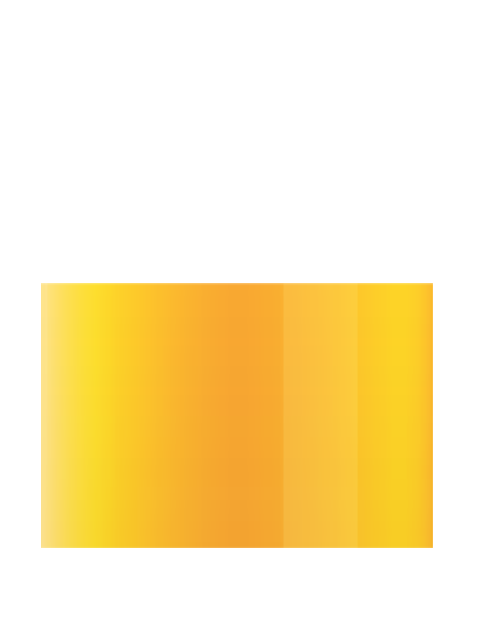
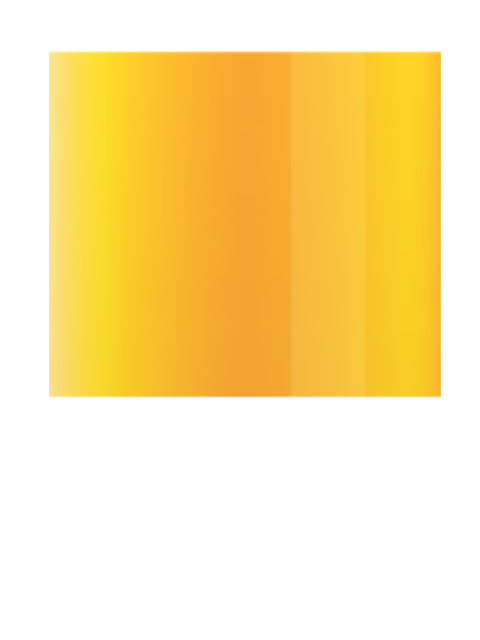
Fix animazione

diff --git a/Informatica/ArniaDidattica/site/default.htm b/Informatica/ArniaDidattica/site/default.htm
@@ -151,27 +151,27 @@
        
         @-moz-keyframes fill_jar 
         {
-            0% 	{ background: 0% -300%; }
+            0% 	{ background: 0% -480%; }
 
-            10% { background: 0% -(300-38)%; }
+            10% { background: 0% -(480-33)%; }
 
-            20% { background: 0% -(300-76)%; }
+            20% { background: 0% -(480-66)%; }
 
-            30% { background: 0% -(300-114)%; }
+            30% { background: 0% -(480-99)%; }
 
-            40% { background: 0% -(300-152)%; }
+            40% { background: 0% -(480-132)%; }
 
-            50% { background: 0% -(300-190)%; }
+            50% { background: 0% -(480-165)%; }
 
-            60% { background: 0% -(300-228)%; }
+            60% { background: 0% -(480-198)%; }
 
-            70% { background: 0% -(300-256)%; }
+            70% { background: 0% -(480-231)%; }
 
-            80% { background: 0% -(300-284)%; }
+            80% { background: 0% -(480-264)%; }
 
-            90% { background: 0% -(300-322)%; }
+            90% { background: 0% -(480-297)%; }
 
-            100% { background: 0% 40%; }
+            100% { background: 0% -145%; }
         }
 
         .blink_me {

diff --git a/Informatica/ArniaDidattica/site/partials/final_score.html b/Informatica/ArniaDidattica/site/partials/final_score.html
@@ -1,6 +1,6 @@
 <div style="position: relative; float: left; margin-top: 10%; padding-left: 14%;">
     <div style=" position: relative; height: 640px; width: 480px; top: 0; bottom: 0; background-image: url('../img/Jar.png');">
-    	<div id="honey" class="fill_jar" style=" position: relative; width: inherit; left: 8px; bottom: 0px; height: 540px; top: -11px; background: url('../img/Honey.png') 0% 40% transparent; background-repeat: no-repeat"></div>
+    	<div id="honey" class="fill_jar" style=" position: relative; width: inherit; left: 2px; bottom: 0px; height: 540px; top: -11px; background: url('../img/Honey.png') 0% -480% transparent; background-repeat: no-repeat"></div>
     </div>
 </div>
 	

diff --git a/Informatica/ArniaDidattica/site/Scripts/controllers.js b/Informatica/ArniaDidattica/site/Scripts/controllers.js
@@ -529,8 +529,9 @@ beehiveControllers.controller('risultato', ['$scope', '$location', '$http',
   function ($scope, $location, $http) {
       if ($location.url() == "/risultato") {
           
+          punti = 75;
 			var currentPercent = 0;
-			var puntiPerc = ((punti/75)*100);
+			var puntiPerc = ((punti/76)*100);
 
 			window.setInterval(function() {
 			  if(currentPercent < puntiPerc)
